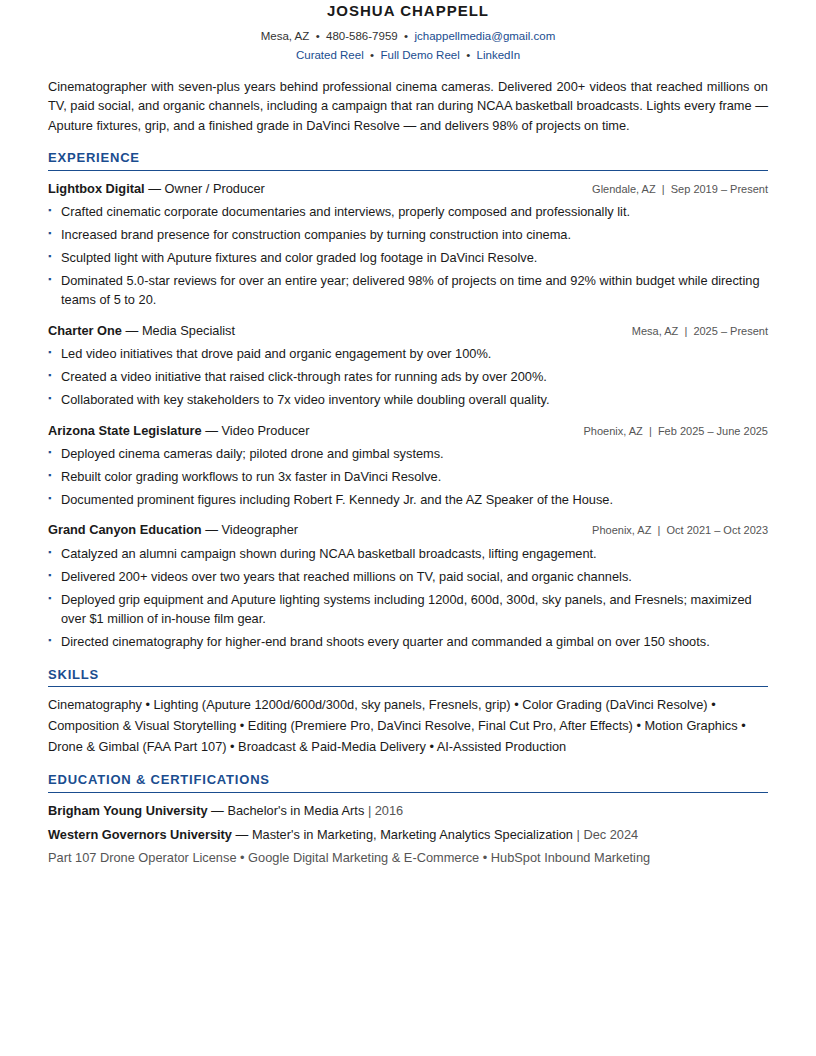
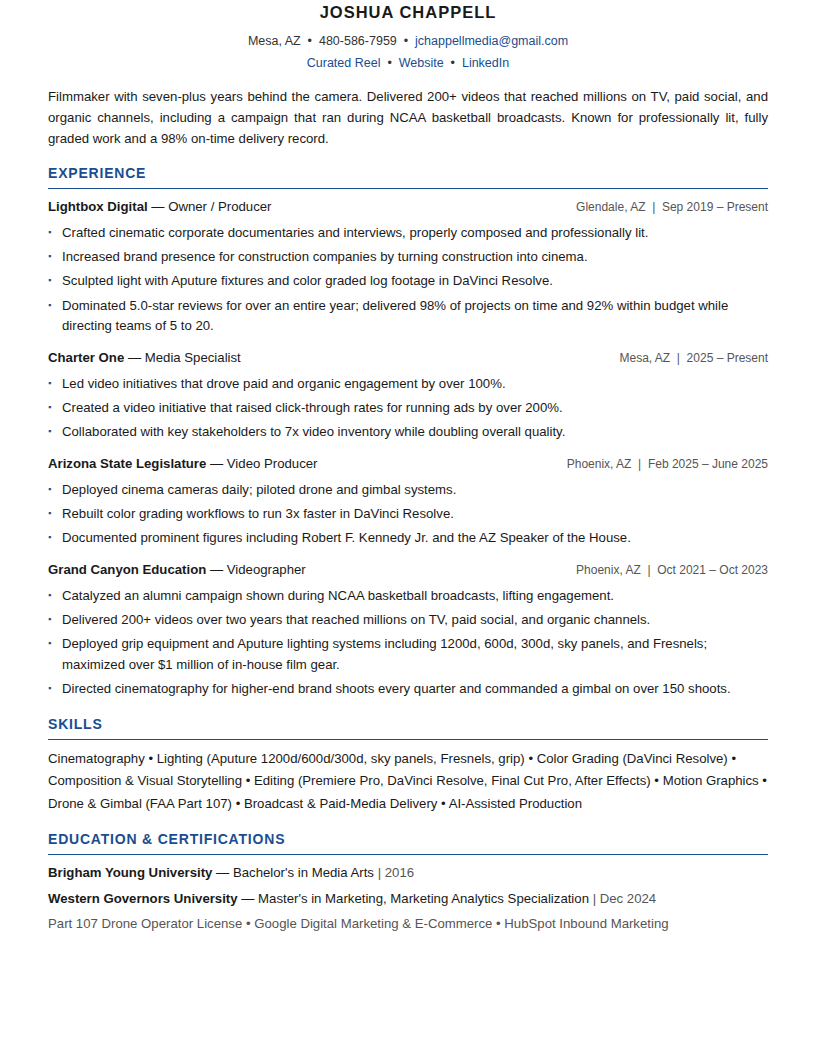
Scale Agility resume typography to fill the page
Claude-Session: https://claude.ai/code/session_01VpCXqDFSAKkK8y6mKL2HCw

Changed region(s): [[0.0613, 0.0, 0.9498, 0.9062], [0.8885, 0.4062, 0.9498, 0.4688]]

diff --git a/applications/agility-ai-cinematographer/resume.html b/applications/agility-ai-cinematographer/resume.html
@@ -3,35 +3,35 @@
   * { margin: 0; padding: 0; box-sizing: border-box; }
   body {
     font-family: "Calibri", "Segoe UI", Arial, sans-serif;
-    font-size: 12.8px;
-    line-height: 1.52;
+    font-size: 13.2px;
+    line-height: 1.56;
     color: #1a1a1a;
     max-width: 7.5in;
     margin: 0 auto;
   }
-  header { text-align: center; margin-bottom: 12px; }
-  h1 { font-size: 15px; letter-spacing: 1px; margin-bottom: 4px; }
-  .contact { font-size: 11.5px; color: #333; line-height: 1.65; }
+  header { text-align: center; margin-bottom: 13px; }
+  h1 { font-size: 16.5px; letter-spacing: 1px; margin-bottom: 5px; }
+  .contact { font-size: 12.5px; color: #333; line-height: 1.75; }
   .contact a { color: #1a4d8f; text-decoration: none; }
-  .summary { margin: 9px 0 12px; text-align: justify; }
+  .summary { margin: 10px 0 14px; text-align: justify; }
   h2 {
-    font-size: 13px;
+    font-size: 14px;
     text-transform: uppercase;
     letter-spacing: 0.8px;
     border-bottom: 1.5px solid #1a4d8f;
     color: #1a4d8f;
-    padding-bottom: 2px;
-    margin: 13px 0 8px;
+    padding-bottom: 3px;
+    margin: 14px 0 8px;
   }
   .job { margin-bottom: 11px; }
   .job-head { display: flex; justify-content: space-between; align-items: baseline; }
   .job-company { font-weight: bold; }
-  .job-meta { font-size: 11px; color: #555; white-space: nowrap; }
-  ul { list-style: none; margin: 4px 0 0; }
-  li { position: relative; padding-left: 13px; margin-bottom: 3.5px; }
+  .job-meta { font-size: 12px; color: #555; white-space: nowrap; }
+  ul { list-style: none; margin: 5px 0 0; }
+  li { position: relative; padding-left: 14px; margin-bottom: 3.8px; }
   li::before { content: "\25AA"; position: absolute; left: 0; color: #1a4d8f; font-size: 9px; top: 2px; }
-  .skills p { line-height: 1.62; }
-  .edu-line { margin-bottom: 4px; }
+  .skills p { line-height: 1.7; }
+  .edu-line { margin-bottom: 5px; }
   .edu-line span { color: #555; }
   a { color: #1a4d8f; }
 </style>
